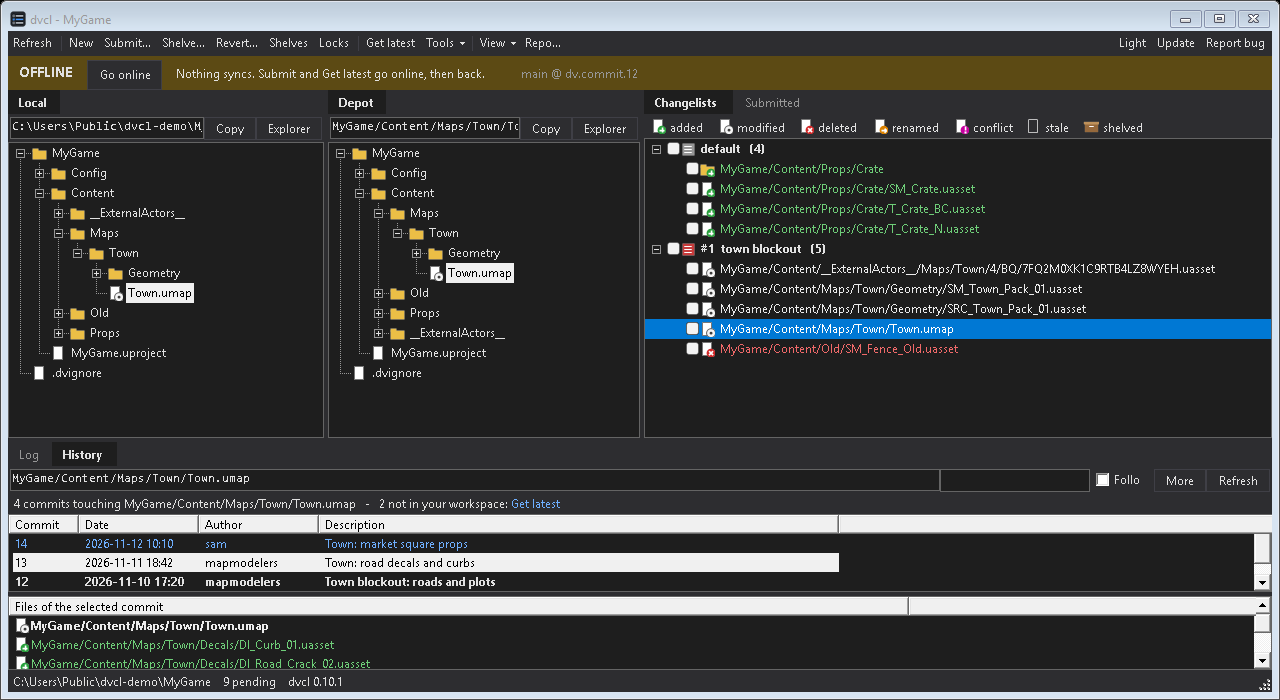
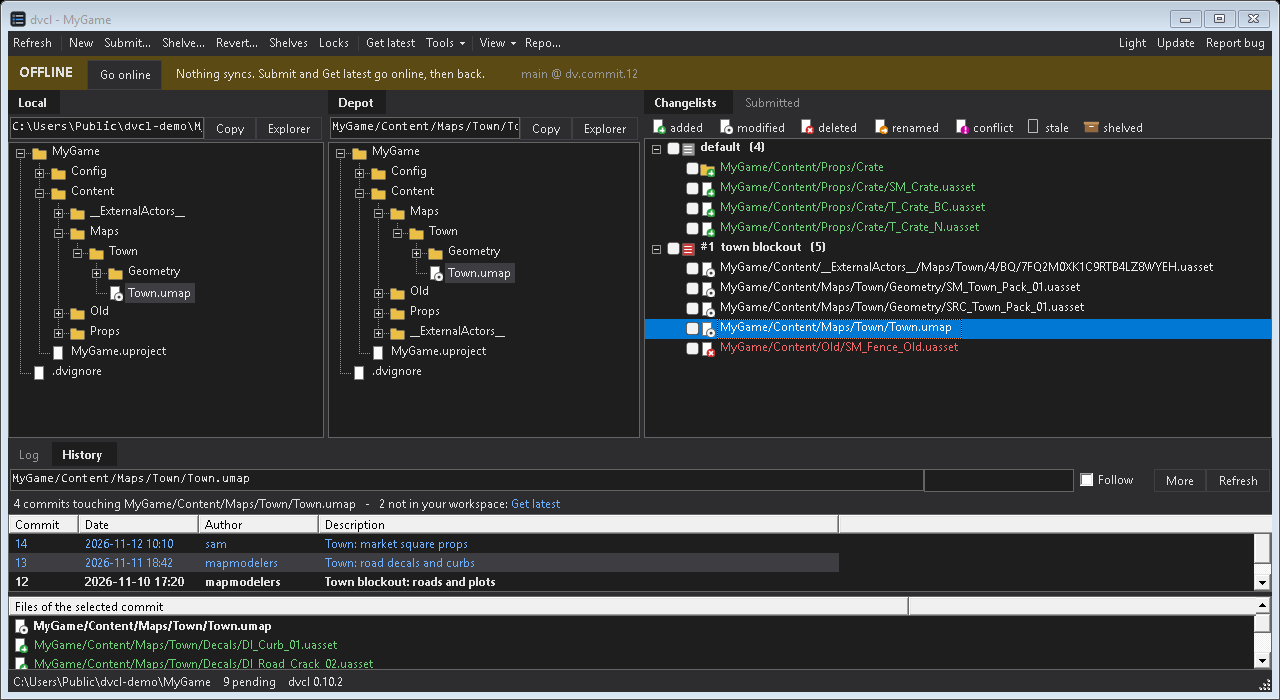
dvcl 0.10.2: dark selection in unfocused trees and lists; Follow label

diff --git a/CHANGELOG.md b/CHANGELOG.md
@@ -2,6 +2,11 @@
 
 Versions follow [semver](https://semver.org). Tags: `vX.Y.Z`.
 
+## 0.10.2 - 2026-11-12
+
+- Dark theme: the selection of an unfocused tree or list is dark (was white).
+- History: "Follow" no longer cut.
+
 ## 0.10.1 - 2026-11-12
 
 - Commit files: a description starting with "A ", "M "... is no longer read as a file.
